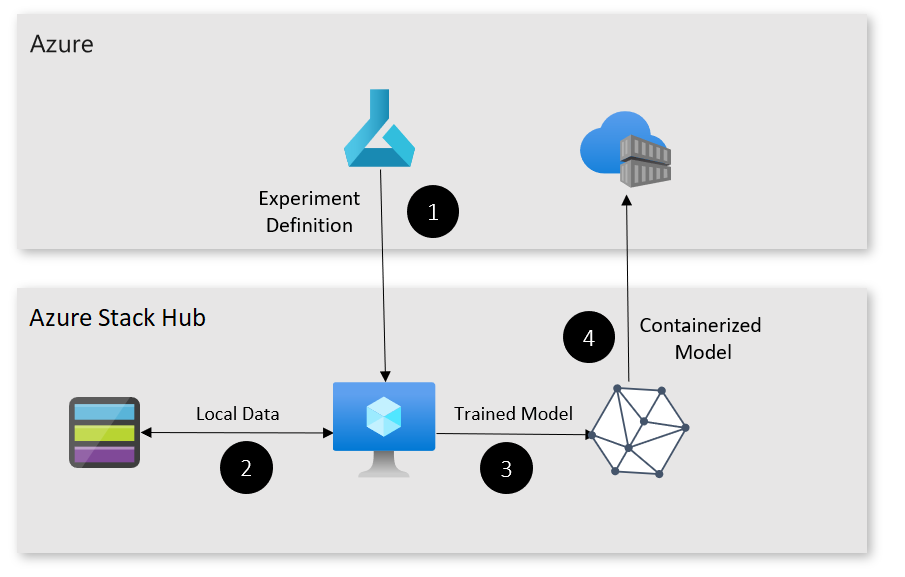
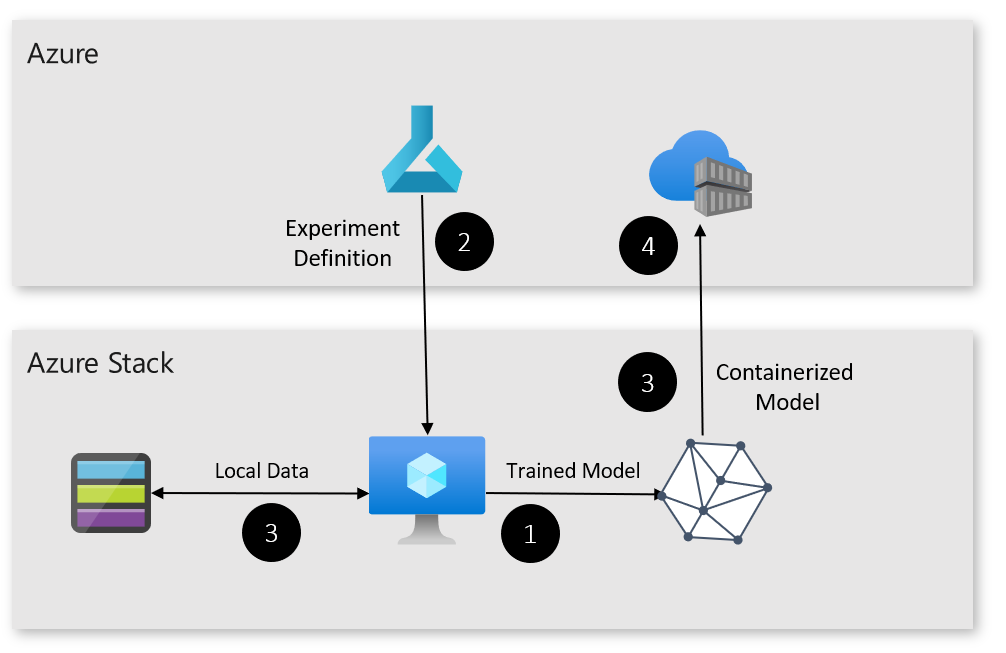
2nd round updates

diff --git a/hybrid/app-solutions/pattern-retail-footfall-detection.md b/hybrid/app-solutions/pattern-retail-footfall-detection.md
@@ -1,6 +1,6 @@
 ---
-title: Hybrid pattern for implementing a AI-based footfall detection using Azure and Azure Stack
-description: Learn how to use Azure and Azure Stack services, to implement an AI-based footfall detection solution for analyzing retail store traffic.
+title: Hybrid pattern for implementing a AI-based footfall detection using Azure and Azure Stack Hub.
+description: Learn how to use Azure and Azure Stack Hub services, to implement an AI-based footfall detection solution for analyzing retail store traffic.
 author: BryanLa
 ms.service: azure-stack
 ms.topic: article
@@ -12,7 +12,7 @@ ms.lastreviewed: 10/31/2019
 
 # Footfall detection pattern
 
-This pattern provides an overview for implementing an AI-based footfall detection solution, for analyzing visitor traffic in retail stores. The solution generates insights from real world actions, using Azure, Azure Stack, and the Custom Vision AI Dev Kit.
+This pattern provides an overview for implementing an AI-based footfall detection solution, for analyzing visitor traffic in retail stores. The solution generates insights from real world actions, using Azure, Azure Stack Hub, and the Custom Vision AI Dev Kit.
 
 ## Context and problem
 
@@ -22,15 +22,15 @@ Contoso would like to find an unobtrusive, privacy-friendly way to determine the
 
 ## Solution
 
-This retail analytics pattern uses a tiered approach to inferencing at the edge. By using the Custom Vision AI Dev Kit, only images with human faces are sent for analysis to a private Azure Stack that runs Azure Cognitive Services. Anonymized, aggregated data is sent to Azure for aggregation across all stores and visualization in Power BI. Combining the edge and public cloud allows Contoso to take advantage of modern AI technology. While at the same time, remain in compliance with their corporate policies and respect their customers' privacy.
+This retail analytics pattern uses a tiered approach to inferencing at the edge. By using the Custom Vision AI Dev Kit, only images with human faces are sent for analysis to a private Azure Stack Hub that runs Azure Cognitive Services. Anonymized, aggregated data is sent to Azure for aggregation across all stores and visualization in Power BI. Combining the edge and public cloud allows Contoso to take advantage of modern AI technology. While at the same time, remain in compliance with their corporate policies and respect their customers' privacy.
 
 [![Footfall detection solution](media/pattern-retail-footfall-detection/solution-architecture.png)](media/pattern-retail-footfall-detection/solution-architecture.png)
 
 Here's a summary of how the solution works: 
 
 1. The Custom Vision AI Dev Kit gets a configuration from IoT Hub, which installs the IoT Edge Runtime and an ML model.
-2. If the model sees a person, it takes a picture and uploads it to Azure Stack blob storage. 
-3. The blob service triggers an Azure Function on Azure Stack. 
+2. If the model sees a person, it takes a picture and uploads it to Azure Stack Hub blob storage. 
+3. The blob service triggers an Azure Function on Azure Stack Hub. 
 4. The Azure Function calls a container with the Face API to get demographic and emotion data from the image.
 5. The data is anonymized and sent to an Azure Event Hub.
 6. The Event Hub pushes the data to Stream Analytics.
@@ -43,15 +43,14 @@ This solution uses the following components:
 | Layer | Component | Description |
 |----------|-----------|-------------|
 | In-store hardware | [Custom Vision AI Dev Kit](https://azure.github.io/Vision-AI-DevKit-Pages/) | Provides in-store filtering using a local ML model that only captures images of people for analysis. Securely provisioned and updated through IoT Hub.<br><br>|
-| Azure Stack | [App Service](../operator/azure-stack-app-service-overview.md) | The App Service resource provider (RP) provides a base for edge components. Including hosting and management features for web apps/APIs and Functions. |
-| | Azure Kubernetes Service [(AKS) Engine](https://github.com/Azure/aks-engine) cluster | The AKS RP with AKS-Engine cluster deployed into Azure Stack, provides a scalable, resilient engine to run the Face API container. |
-| | Azure Cognitive Services [Face API containers](/azure/cognitive-services/face/face-how-to-install-containers)| The Azure Cognitive Services RP with Face API containers provides demographic, emotion, and unique visitor detection on Contoso's private network. |
-| | Blob Storage | Images captured from the AI Dev Kit are uploaded to Azure Stack's blob storage. |
-| | Azure Functions | An Azure Function running on Azure Stack receives input from blob storage, and manages the interactions with the Face API. It emits anonymized data to an Event Hub located in Azure.<br><br>|
-| Azure |  |  |
-|  | [Azure Event Hubs](/azure/event-hubs/) | Azure Event Hubs provides a scalable platform for ingesting anonymized data that integrates neatly with Azure Stream Analytics. |
+| Azure | [Azure Event Hubs](/azure/event-hubs/) | Azure Event Hubs provides a scalable platform for ingesting anonymized data that integrates neatly with Azure Stream Analytics. |
 |  | [Azure Stream Analytics](/azure/stream-analytics/) | An Azure Stream Analytics job aggregates the anonymized data and groups it into 15-second windows for visualization. |
 |  | [Microsoft Power BI](https://powerbi.microsoft.com/) | Power BI provides an easy-to-use dashboard interface for viewing the output from Azure Stream Analytics. |
+| Azure Stack Hub | [App Service](../operator/azure-stack-app-service-overview.md) | The App Service resource provider (RP) provides a base for edge components. Including hosting and management features for web apps/APIs and Functions. |
+| | Azure Kubernetes Service [(AKS) Engine](https://github.com/Azure/aks-engine) cluster | The AKS RP with AKS-Engine cluster deployed into Azure Stack Hub, provides a scalable, resilient engine to run the Face API container. |
+| | Azure Cognitive Services [Face API containers](/azure/cognitive-services/face/face-how-to-install-containers)| The Azure Cognitive Services RP with Face API containers provides demographic, emotion, and unique visitor detection on Contoso's private network. |
+| | Blob Storage | Images captured from the AI Dev Kit are uploaded to Azure Stack Hub's blob storage. |
+| | Azure Functions | An Azure Function running on Azure Stack Hub receives input from blob storage, and manages the interactions with the Face API. It emits anonymized data to an Event Hub located in Azure.<br><br>|
 
 ## Issues and considerations
 
@@ -68,7 +67,7 @@ To enable this solution to scale across multiple cameras and locations, you'll n
 
 ### Availability
 
-Since this solution is tiered, it's important to think about how to deal with networking or power failures. Depending on business needs, it might be appropriate to implement a mechanism to cache images locally, then forward to Azure Stack when connectivity returns. If the location is large enough, deploying a Data Box Edge with the Face API container to that location might be a better option.
+Since this solution is tiered, it's important to think about how to deal with networking or power failures. Depending on business needs, it might be appropriate to implement a mechanism to cache images locally, then forward to Azure Stack Hub when connectivity returns. If the location is large enough, deploying a Data Box Edge with the Face API container to that location might be a better option.
 
 ### Manageability
 

diff --git a/hybrid/app-solutions/pattern-cross-cloud-scaling-onprem-data.md b/hybrid/app-solutions/pattern-cross-cloud-scaling-onprem-data.md
@@ -24,7 +24,7 @@ The solution takes advantage of the compliance benefits of the private cloud, co
 
 The solution deployment guide allows you to deploy an identical web application to a public and private cloud. You can also access a non-internet routable network, hosted on the private cloud. The web applications are monitored for load. Upon a significant increase in traffic, a program manipulates DNS records to redirect traffic to the public cloud. When traffic is no longer significant, the DNS records are updated to direct traffic back to the private cloud.
 
-[![cross-cloud scaling with on-prem data architecture](media/pattern-cross-cloud-scaling-onprem-data/solution-architecture.png)](media/pattern-cross-cloud-scaling-onprem-data/solution-architecture.png#lightbox)
+[![](media/pattern-cross-cloud-scaling-onprem-data/solution-architecture.png)](media/pattern-cross-cloud-scaling-onprem-data/solution-architecture.png)
 
 ## Components
 
@@ -32,19 +32,16 @@ This solution uses the following components:
 
 | Layer | Component | Description |
 |----------|-----------|-------------|
-| Azure |  |  |
-| | Azure App Service | [Azure App Service](/azure/app-service/) allows you to build and host web apps, RESTful API apps, and Azure Functions. All in the programming language of your choice, without managing infrastructure. |
+| Azure | Azure App Service | [Azure App Service](/azure/app-service/) allows you to build and host web apps, RESTful API apps, and Azure Functions. All in the programming language of your choice, without managing infrastructure. |
 | | Azure Virtual Network| [Azure Virtual Network (VNet)](/azure/virtual-network/virtual-networks-overview) is the fundamental building block for private networks in Azure. VNet enables multiple Azure resource types, such as Virtual Machines (VM), to securely communicate with each other, the internet, and on-premises networks. The solution also demonstrates the use of additional networking components:<br>- application and gateway subnets<br>- a local on-premises network gateway<br>- a virtual network gateway, which acts as a site-to-site VPN gateway connection<br>- a public IP address<br>- a point-to-site VPN connection<br>- Azure DNS for hosting DNS domains and providing name resolution |
 | | Azure Traffic Manager | [Azure Traffic Manager](/azure/traffic-manager/traffic-manager-overview) is a DNS-based traffic load balancer. It allows you to control the distribution of user traffic for service endpoints in different datacenters. |
 | | Azure Application Insights | [Application Insights](/azure/azure-monitor/app/app-insights-overview) is an extensible Application Performance Management service, for web developers building and managing apps on multiple platforms.|
 | | Azure Functions | [Azure Functions](/azure/azure-functions/) allow you to execute your code in a serverless environment without having to first create a VM or publish a web application. |
 | | Azure Autoscale | [Autoscale](/azure/azure-monitor/platform/autoscale-overview) is a built-in feature of Cloud Services, Virtual Machines, and Web apps. The feature allows applications to perform their best when demand changes. Apps will adjust for traffic spikes, notifying you when metrics change, and scaling as needed. |
-| Azure Stack Hub |    |             |
-| | IaaS Compute | Azure Stack Hub allows you to use the same application model, self-service portal, and APIs enabled by Azure. Azure Stack Hub IaaS allows a broad range of open source technologies for consistent hybrid cloud deployments. The solution example uses a Windows Server VM to SQL Server, for example.|
+| Azure Stack Hub | IaaS Compute | Azure Stack Hub allows you to use the same application model, self-service portal, and APIs enabled by Azure. Azure Stack Hub IaaS allows a broad range of open source technologies for consistent hybrid cloud deployments. The solution example uses a Windows Server VM to SQL Server, for example.|
 | | Azure App Service | Just like the Azure web app, the solution uses [Azure App Service on Azure Stack Hub](/azure-stack/operator/azure-stack-app-service-overview) to host the web app. |
 | | Networking | The Azure Stack Hub Virtual Network, works exactly like the Azure Virtual Network. It uses many of the same networking components, including custom hostnames. 
-| Azure DevOps Services | | |
-| | Sign-up | Quickly set up continuous integration for build, test, and deployment. For more information, see [Sign up, sign in to Azure DevOps](/azure/devops/user-guide/sign-up-invite-teammates?view=azure-devops). |
+| Azure DevOps Services | Sign-up | Quickly set up continuous integration for build, test, and deployment. For more information, see [Sign up, sign in to Azure DevOps](/azure/devops/user-guide/sign-up-invite-teammates?view=azure-devops). |
 | | Azure Pipelines | Use [Azure Pipelines](/azure/devops/pipelines/agents/agents?view=azure-devops) for Continuous Integration/Continuous delivery. Azure Pipelines allows you to manage hosted build and release agents and definitions. |
 | | Code repository | Leverage multiple code repositories to streamline your development pipeline. Use existing code repositories in GitHub, Bitbucket, Dropbox, OneDrive, and Azure Repos. |
 

diff --git a/hybrid/app-solutions/pattern-tiered-data-for-analytics.md b/hybrid/app-solutions/pattern-tiered-data-for-analytics.md
@@ -43,10 +43,8 @@ This solution uses the following components:
 
 | Layer | Component | Description |
 |----------|-----------|-------------|
-| Azure |  |  |
-| | Storage | An [Azure Storage](/azure/storage/) account provides a sterile data consumption endpoint. Azure Storage is Microsoft's cloud storage solution for modern data storage scenarios. Azure Storage offers a massively scalable object store for data objects and a file system service for the cloud. It also provides a messaging store for reliable messaging, and a NoSQL store. |
-| Azure Stack Hub |    |             |
-| | Storage | An [Azure Stack Hub Storage](/azure-stack/user/azure-stack-storage-overview) account is used for multiple services:<br>- **Blob storage** for raw data storage. Blob storage can hold any type of text or binary data, such as a document, media file, or application installer. Every blob is organized under a container. Containers provide a useful way to assign security policies to groups of objects. A storage account may contain any number of containers, and a container can contain any number of blobs, up to the 500-TB capacity limit of the storage account.<br>- **Blob storage** for data archive. There are benefits to low-cost storage for cool data archiving. Examples of cool data include backups, media content, scientific data, compliance, and archival data. In general, any data that is accessed infrequently is considered cool storage. tiering data based on attributes like frequency of access and retention period. Customer data is infrequently accessed but requires similar latency and performance to hot data.<br>- **Queue storage** for processed data storage. Queue storage provides cloud messaging between application components. In designing applications for scale, application components are often decoupled, so they can scale independently. Queue storage delivers asynchronous messaging for communication between application components.  Whether they're running in the cloud, on the desktop, an on-premises server, or a mobile device. Queue storage also supports managing asynchronous tasks and building process work flows. |
+| Azure | Storage | An [Azure Storage](/azure/storage/) account provides a sterile data consumption endpoint. Azure Storage is Microsoft's cloud storage solution for modern data storage scenarios. Azure Storage offers a massively scalable object store for data objects and a file system service for the cloud. It also provides a messaging store for reliable messaging, and a NoSQL store. |
+| Azure Stack Hub | Storage | An [Azure Stack Hub Storage](/azure-stack/user/azure-stack-storage-overview) account is used for multiple services:<br>- **Blob storage** for raw data storage. Blob storage can hold any type of text or binary data, such as a document, media file, or application installer. Every blob is organized under a container. Containers provide a useful way to assign security policies to groups of objects. A storage account may contain any number of containers, and a container can contain any number of blobs, up to the 500-TB capacity limit of the storage account.<br>- **Blob storage** for data archive. There are benefits to low-cost storage for cool data archiving. Examples of cool data include backups, media content, scientific data, compliance, and archival data. In general, any data that is accessed infrequently is considered cool storage. tiering data based on attributes like frequency of access and retention period. Customer data is infrequently accessed but requires similar latency and performance to hot data.<br>- **Queue storage** for processed data storage. Queue storage provides cloud messaging between application components. In designing applications for scale, application components are often decoupled, so they can scale independently. Queue storage delivers asynchronous messaging for communication between application components.  Whether they're running in the cloud, on the desktop, an on-premises server, or a mobile device. Queue storage also supports managing asynchronous tasks and building process work flows. |
 | | Azure Functions | The [Azure Functions](/azure/azure-functions/) service is provided by the [Azure App Service on Azure Stack Hub](/azure-stack/operator/azure-stack-app-service-overview) resource provider. Azure Functions allows you to execute your code in a simple, serverless environment, to run script or code in response to a variety of events. Azure Functions scale to meet demand without having to create a VM or publish a web app, using the programming language of your choice. Functions are used by the solution for:<br>- **Data intake**<br>- **Data sterilization.** Manually triggered functions can perform scheduled data processing, clean up and archiving. Examples may include nightly customer list scrubs and monthly report processing.|
 
 ## Issues and considerations

diff --git a/hybrid/app-solutions/pattern-train-ml-model-at-edge.md b/hybrid/app-solutions/pattern-train-ml-model-at-edge.md
@@ -26,7 +26,7 @@ The training at the edge pattern uses a virtual machine (VM) running on Azure St
 
 Once the model is trained, it's registered with Azure ML, containerized, and added to an Azure Container Registry for deployment. For this iteration of the pattern, the Azure Stack Hub training VM must be reachable over the public Internet. 
 
-![train ml model at the edge architecture](media/pattern-train-ml-model-at-edge/solution-architecture.png)
+]![train ml model at the edge architecture](media/pattern-train-ml-model-at-edge/solution-architecture.png)](media/pattern-train-ml-model-at-edge/solution-architecture.png)
 
 Here's how the solution works: 
 
@@ -41,13 +41,11 @@ This solution uses the following components:
 
 | Layer | Component | Description |
 |----------|-----------|-------------|
-| Azure |  |  |
-| | Azure Machine Learning | [Azure Machine Learning](/azure/machine-learning/) orchestrates the training of the ML model. |
+| Azure | Azure Machine Learning | [Azure Machine Learning](/azure/machine-learning/) orchestrates the training of the ML model. |
 | | Azure Container Registry | Azure ML packages the model into a container and stores it in an [Azure Container Registry](/azure/container-registry/) for deployment.|
-| Azure Stack Hub |    |             |
-| | App Service | [Azure Stack Hub with App Service](/azure-stack/operator/azure-stack-app-service-overview) provides the base for the components at the edge. |
+| Azure Stack Hub | App Service | [Azure Stack Hub with App Service](/azure-stack/operator/azure-stack-app-service-overview) provides the base for the components at the edge. |
 | | Compute | An Azure Stack Hub VM running Ubuntu with Docker is used to train the ML model. |
-| | Blob storage | Private data can be hosted on Azure Stack Hub Blob Storage. |
+| | Storage | Private data can be hosted in Azure Stack Hub blob storage. |
 
 ## Issues and considerations
 

diff --git a/hybrid/app-solutions/pattern-out-of-stock-at-edge.md b/hybrid/app-solutions/pattern-out-of-stock-at-edge.md
@@ -41,14 +41,11 @@ This solution uses the following components:
 
 | Layer | Component | Description |
 |----------|-----------|-------------|
-| On-premises hardware |  |  |
-| | Network camera | A network camera is required, with either an HTTP or RTSP feed to provide the images for inference. |
-| Azure |  |  |
-|  | Azure IoT Hub | [Azure IoT Hub](/azure/iot-hub/) handles device provisioning, and messaging for the edge devices. |
+| On-premises hardware | Network camera | A network camera is required, with either an HTTP or RTSP feed to provide the images for inference. |
+| Azure | Azure IoT Hub | [Azure IoT Hub](/azure/iot-hub/) handles device provisioning, and messaging for the edge devices. |
 |  | Azure Time Series Insights | [Azure Time Series Insights](/azure/time-series-insights/) stores the messages from IoT Hub for visualization. |
 |  | Power BI | [Microsoft Power BI](https://powerbi.microsoft.com/) provides business-focused reports of out of stock events. Power BI provides an easy-to-use dashboard interface for viewing the output from Azure Stream Analytics. |
-| Azure Stack Edge or Azure IoT Edge device |    |             |
-| | Azure IoT Edge | [Azure IoT Edge](/azure/iot-edge/) orchestrates the runtime for the on-premises containers and handles device management and updates.|
+| Azure Stack Edge or<br>Azure IoT Edge device | Azure IoT Edge | [Azure IoT Edge](/azure/iot-edge/) orchestrates the runtime for the on-premises containers and handles device management and updates.|
 | | Azure project brainwave | On an Azure Stack Edge device, [Project Brainwave](https://blogs.microsoft.com/ai/build-2018-project-brainwave/) uses Field-Programmable Gate Arrays (FPGAs) to accelerate ML inferencing.|
 
 ## Issues and considerations

diff --git a/hybrid/app-solutions/pattern-cicd-pipeline.md b/hybrid/app-solutions/pattern-cicd-pipeline.md
@@ -47,11 +47,11 @@ For more information, see [Develop Azure Resource Manager templates for cloud co
 
 In addition, consider the following points when deciding how to implement this pattern:
 
-### Scalability considerations
+### Scalability
 
 Deployment automation systems are the key control point in the DevOps Patterns. Implementations can vary. The selection of the correct server size depends on the size of the expected workload. VMs cost more to scale than containers. To use containers for scaling, however, your build process must run with containers.
 
-### Availability considerations
+### Availability
 
 Availability in the context of the DevPattern means being able to recover any state information associated with your workflow, such as test results, code dependencies, or other artifacts. To assess your availability requirements, consider two common metrics:
 
@@ -63,7 +63,7 @@ In practice, RTO, and RPO imply redundancy and backup. On the global Azure cloud
 
 Another major consideration when designing the system used for deployment automation is access control and the proper management of the rights needed to deploy services to cloud environments. What rights are needed to create, delete, or modify deployments? For example, one set of rights is typically required to create a resource group in Azure and another to deploy services in the resource group.
 
-### Manageability considerations
+### Manageability
 
 The design of any system based on the DevOps pattern must consider automation, logging, and alerting for each service across the portfolio. Use shared services, an application team, or both, and track security policies and governance as well.
 

diff --git a/hybrid/app-solutions/pattern-hybrid-relay.md b/hybrid/app-solutions/pattern-hybrid-relay.md
@@ -37,11 +37,9 @@ This solution uses the following components:
 
 | Layer | Component | Description |
 |----------|-----------|-------------|
-| Azure |  |  |
-| | Azure VM | An Azure VM provides a publicly accessible endpoint for the on-premises resource. |
+| Azure | Azure VM | An Azure VM provides a publicly accessible endpoint for the on-premises resource. |
 | | Azure Service Bus Relay | An [Azure Service Bus Relay](/azure/service-bus-relay/) provides the infrastructure for maintaining the tunnel and connection between the Azure VM and Azure Stack Hub VM.|
-| Azure Stack Hub |    |             |
-| | Compute | An Azure Stack Hub VM provides the server-side of the Hybrid Relay tunnel. |
+| Azure Stack Hub | Compute | An Azure Stack Hub VM provides the server-side of the Hybrid Relay tunnel. |
 | | Storage | The AKS Engine cluster deployed into Azure Stack Hub provides a scalable, resilient engine to run the Face API container.|
 
 ## Issues and considerations

diff --git a/hybrid/app-solutions/pattern-geo-distributed.md b/hybrid/app-solutions/pattern-geo-distributed.md
@@ -46,15 +46,15 @@ Public IP addresses are used to route the incoming traffic through traffic manag
 
 Consider the following points when deciding how to implement this pattern:
 
-### Scalability considerations
+### Scalability
 
 The pattern handles geographical traffic routing rather than scaling to meet increases in traffic. However, you can combine this pattern with other Azure and on-premises solutions. For example, this pattern can be used with the Cross-cloud Scaling Pattern.
 
-### Availability considerations
+### Availability
 
 Ensure locally deployed apps are configured for high-availability through on-premises hardware configuration and software deployment.
 
-### Manageability considerations
+### Manageability
 
 The pattern ensures seamless management and familiar interface between environments.
 

diff --git a/hybrid/app-solutions/pattern-cross-cloud-scaling.md b/hybrid/app-solutions/pattern-cross-cloud-scaling.md
@@ -73,15 +73,15 @@ Public IP addresses are used to route the incoming traffic through traffic manag
 
 Consider the following points when deciding how to implement this pattern:
 
-### Scalability considerations
+### Scalability
 
 The key component of cross-cloud scaling is the ability to deliver on-demand scaling. Scaling must occur between public and local cloud infrastructure, and provide a  consistent, reliable service per the demand.
 
-### Availability considerations
+### Availability
 
 Ensure locally deployed apps are configured for high-availability through on-premises hardware configuration and software deployment.
 
-### Manageability considerations
+### Manageability
 
 The cross-cloud pattern ensures seamless management and familiar interface between environments.
 
